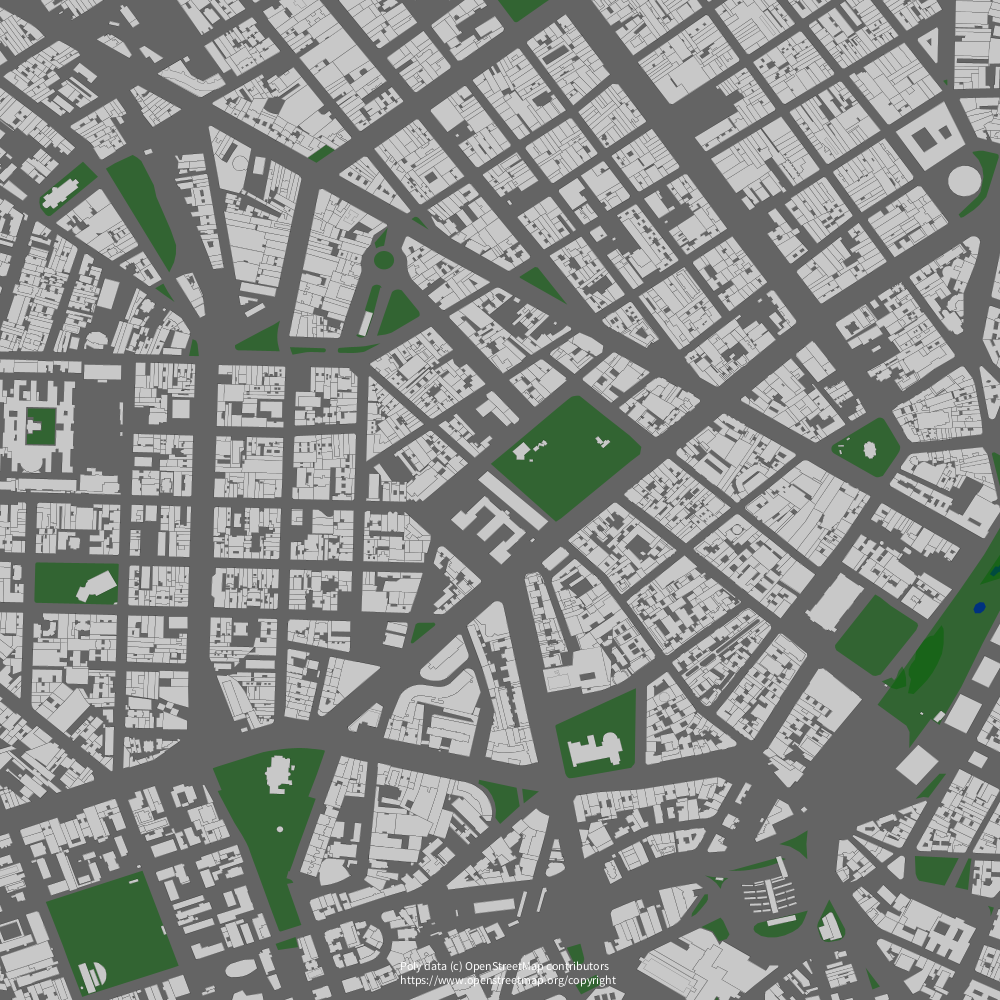
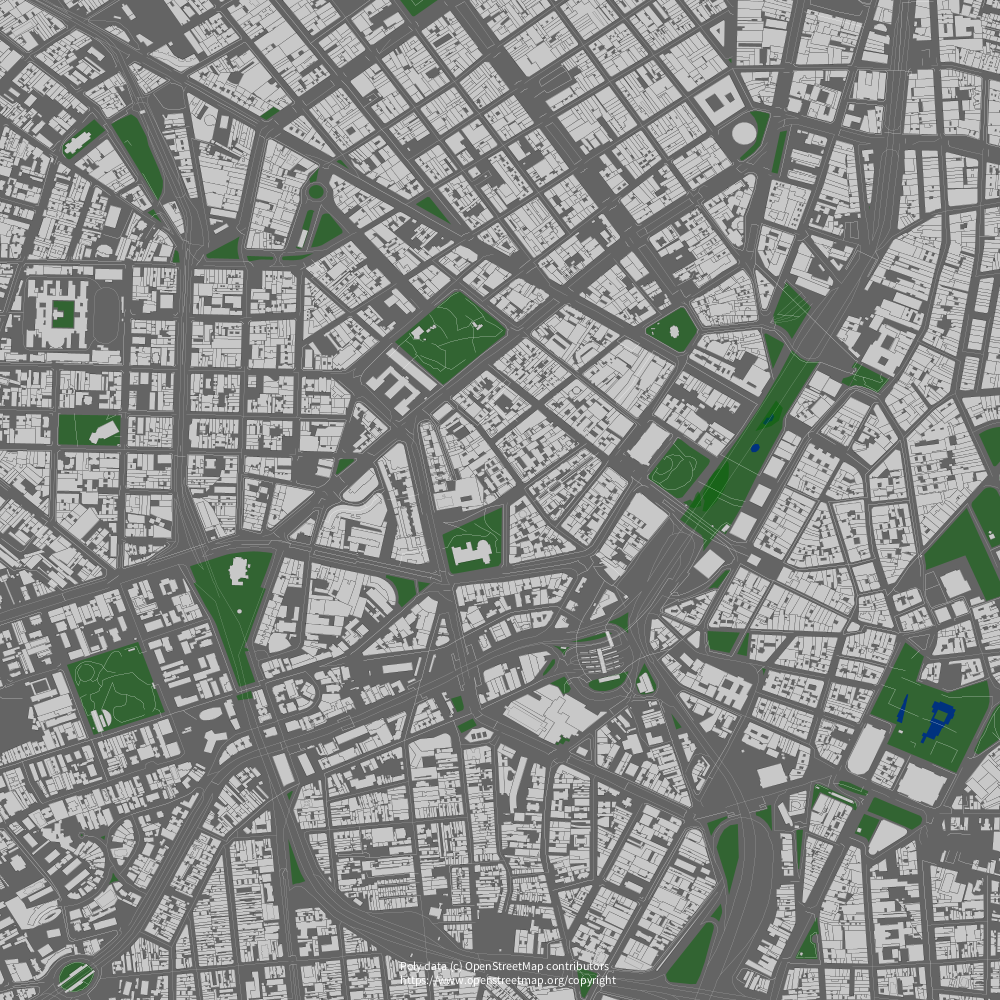
27

diff --git a/2025/sketch_2025_02_27/sketch_2025_02_27.py b/2025/sketch_2025_02_27/sketch_2025_02_27.py
@@ -7,14 +7,12 @@ import py5
 import osmnx as ox
 import shapely
 
-
-
 x_off = 0
 y_off = 0
 zoom = 1
 
 def setup():
-    global main_shp
+    global main_shp, geodata, graph
     py5.size(1000, 1000)
     py5.stroke_join(py5.ROUND)
     data_path = Path('osmnx.data')
@@ -24,8 +22,14 @@ def setup():
     if data_path.is_file():
         print(f'loading GDFs from {data_path}')
         with open(data_path, 'rb') as f:
-            city_boundary, parks_and_squares, rivers, buildings = (
-                pickle.load(f))
+            geodata = pickle.load(f)
+        gdf_nodes, gdf_edges = ox.graph_to_gdfs(
+            geodata['graph'],
+            nodes=True, edges=True,
+            node_geometry=True,
+            fill_edge_geometry=False
+        )
+        geodata['edges'] = gdf_edges
     else:
         print(f'downloading GDFs with OSMnx.=')
         city_boundary = ox.geocode_to_gdf("São Paulo, Brazil")
@@ -44,24 +48,38 @@ def setup():
             se, dist=2000, tags={
                 'building': True,
                 })
-        with open(data_path, 'wb') as f:
-            pickle.dump((city_boundary,
-                         parks_and_squares,
-                         rivers,
-                         buildings
-                         ), f)
+        graph = ox.graph_from_place(
+             "São Paulo, Brazil"
+            )
+        
+        
+        geodata = {
+            'boundary': city_boundary,
+            'parks': parks_and_squares,
+            'rivers': rivers,
+            'buildngs': buildings,
+            'graph': graph,
+            }  
+        
+    with open(data_path, 'wb') as f:
+        pickle.dump(geodata, f)
 
-    x_min, y_min, x_max, y_max = city_boundary.total_bounds
+    x_min, y_min, x_max, y_max = geodata['boundary'].total_bounds
     map_w, map_h = (x_max - x_min), (y_max - y_min)
     x_scale = y_scale = py5.height / map_h
     main_shp = py5.create_shape(py5.GROUP)
-    for gdf, fill_color, stroke_color, in ((city_boundary, 100, 'white'),
-                            (rivers, 'blue', None),
-                            (parks_and_squares, py5.color(0, 100, 0, 128), None),
-                            (buildings, 200, 0),
-                            ):
+    for gdf, fill_color, stroke_color, in (
+        (geodata['boundary'], 100, 'white'),
+        (geodata['rivers'], 'blue', None),
+        (geodata['parks'], py5.color(0, 100, 0, 128), None),
+        (geodata['buildngs'], 200, 0),
+        (geodata['edges'], None, 255),
+        ):
         translate_and_scale_gdf(gdf, -x_min, -y_min, x_scale, -y_scale)
-        py5.fill(fill_color)
+        if fill_color is None:
+            py5.no_fill()
+        else:
+            py5.fill(fill_color)
         if stroke_color is None:
             py5.no_stroke()
         else:

diff --git a/docs/README.md b/docs/README.md
@@ -22,6 +22,16 @@ If you appreciate what I have been doing, you may also support my artistic work,
 
 ---
 
+### sketch_2025_02_27
+
+![sketch_2025_02_27](https://raw.githubusercontent.com/villares/sketch-a-day/main/2025/sketch_2025_02_27/sketch_2025_02_27.png)
+
+[sketch_2025_02_27](https://github.com/villares/sketch-a-day/tree/main/2025/sketch_2025_02_27) [[py5](https://py5coding.org/)]
+
+
+
+---
+
 ### sketch_2025_02_26
 
 ![sketch_2025_02_26](https://raw.githubusercontent.com/villares/sketch-a-day/main/2025/sketch_2025_02_26/sketch_2025_02_26.png)
